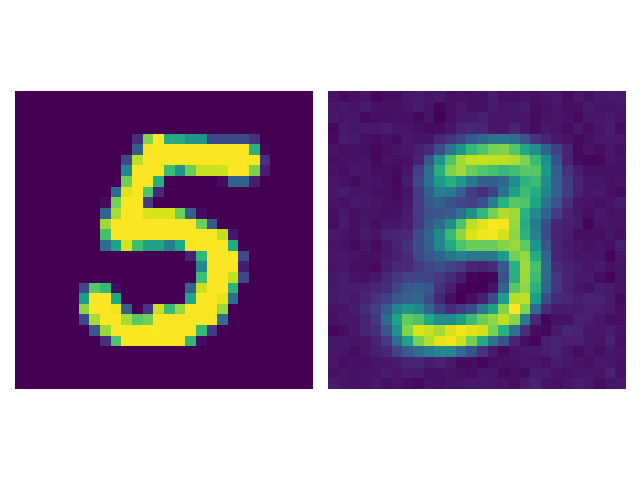
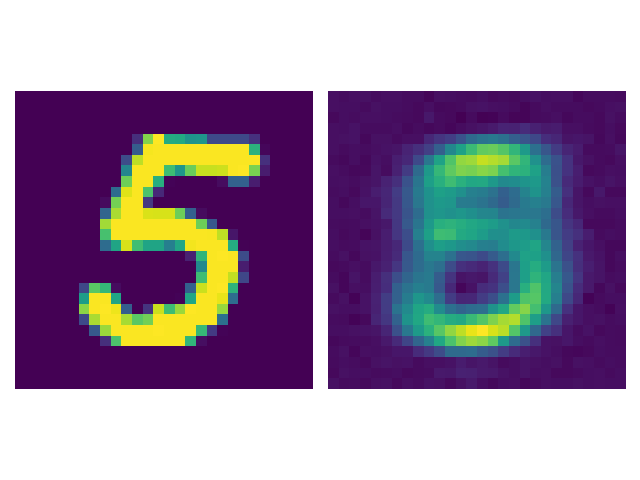
update

Changed region(s): [[0.5625, 0.2812, 0.9375, 0.7812], [0.75, 0.2188, 0.7812, 0.25]]

diff --git a/src/data.py b/src/data.py
@@ -165,35 +165,33 @@ def get_data(name, batch_size=32, missing_data_imputation=False):
 
         import numpy as np
         from Bio import SeqIO
-        if "processed_data.pkl" not in os.listdir("../data/protein"):
-            seqs = []
-            labels = []
-            ids1, ids2 = [], []
-            for record in SeqIO.parse("../data/protein/PF00144_full.txt", "fasta"):
-                seqs.append(
-                    np.array([aa1_to_index[aa] for aa in str(record.seq).upper()])
-                )
-                ids1.append(re.findall(r".*\/", record.id)[0][:-1])
-            d1 = dict([(i, s) for i, s in zip(ids1, seqs)])
-            for record in SeqIO.parse(
-                "../data/protein/PF00144_full_length_sequences_labeled.fasta", "fasta"
-            ):
-                ids2.append(record.id)
-                labels.append(re.findall(r"\[.*\]", record.description)[0][1:-1])
-            d2 = dict([(i, l) for i, l in zip(ids2, labels)])
 
-            data = []
-            for key in d1.keys():
-                if key in d2.keys() and d2[key] in important_organisms:
-                    data.append([d1[key], d2[key]])
-            with open("../data/protein/processed_data.pkl", "wb") as file:
-                pkl.dump(data, file)
-        else:
-            with open("../data/protein/processed_data.pkl", "rb") as file:
-                data = pkl.load(file)
+        seqs = []
+        labels = []
+        ids1, ids2 = [], []
+        for record in SeqIO.parse("../data/protein/PF00144_full.txt", "fasta"):
+            seqs.append(
+                np.array([aa1_to_index[aa] for aa in str(record.seq).upper()])
+            )
+            ids1.append(re.findall(r".*\/", record.id)[0][:-1])
+        d1 = dict([(i, s) for i, s in zip(ids1, seqs)])
+        for record in SeqIO.parse(
+            "../data/protein/PF00144_full_length_sequences_labeled.fasta", "fasta"
+        ):
+            ids2.append(record.id)
+            labels.append(re.findall(r"\[.*\]", record.description)[0][1:-1])
+        d2 = dict([(i, l) for i, l in zip(ids2, labels)])
+
+        data = []
+        for key in d1.keys():
+            if key in d2.keys() and d2[key] in important_organisms:
+                data.append([d1[key], d2[key]])
+        with open("../data/protein/processed_data.pkl", "wb") as file:
+            pkl.dump(data, file)
 
         seqs = torch.tensor(np.array([d[0] for d in data]))
         labels = torch.tensor(np.array([important_organisms[d[1]] for d in data]))
+        seqs = torch.nn.functional.one_hot(seqs, )
 
         n_total = len(seqs)
         idx = np.random.permutation(n_total)

diff --git a/src/trainer_mcdrop_ae.py b/src/trainer_mcdrop_ae.py
@@ -32,7 +32,7 @@ class LitDropoutAutoEncoder(pl.LightningModule):
         super().__init__()
 
         self.loss_fn = config['loss_fn']
-        latent_size = 2
+        latent_size = config['latent_size']
         self.encoder = get_encoder(config, latent_size, dropout=config["dropout_rate"])
         self.decoder = get_decoder(config, latent_size, dropout=config["dropout_rate"])
 
@@ -267,6 +267,7 @@ def train_mcdropout_ae(config):
         auto_scale_batch_size=True,
         logger=logger,
         callbacks=callbacks,
+        max_epochs=1,
     )
     trainer.fit(model, train_loader, val_loader)
 

diff --git a/src/trainer_vae.py b/src/trainer_vae.py
@@ -33,7 +33,7 @@ class LitVariationalAutoEncoder(pl.LightningModule):
         self.alpha = config["kl_weight"]
         self.use_var_decoder = config["use_var_decoder"]
 
-        latent_size = 2
+        latent_size = config["latent_size"]
         self.mu_encoder = get_encoder(config, latent_size)
         self.var_encoder = get_encoder(config, latent_size)
 

diff --git a/src/utils.py b/src/utils.py
@@ -5,7 +5,6 @@ import dill
 def softclip(tensor, min):
     """Clips the tensor values at the minimum value min in a softway. Taken from Handful of Trials"""
     result_tensor = min + F.softplus(tensor - min)
-
     return result_tensor
 
 

diff --git a/src/trainer_ae.py b/src/trainer_ae.py
@@ -227,6 +227,7 @@ def train_ae(config):
         auto_scale_batch_size=True,
         logger=logger,
         callbacks=callbacks,
+        max_epochs=1
     )
     trainer.fit(model, train_loader, val_loader)
 
